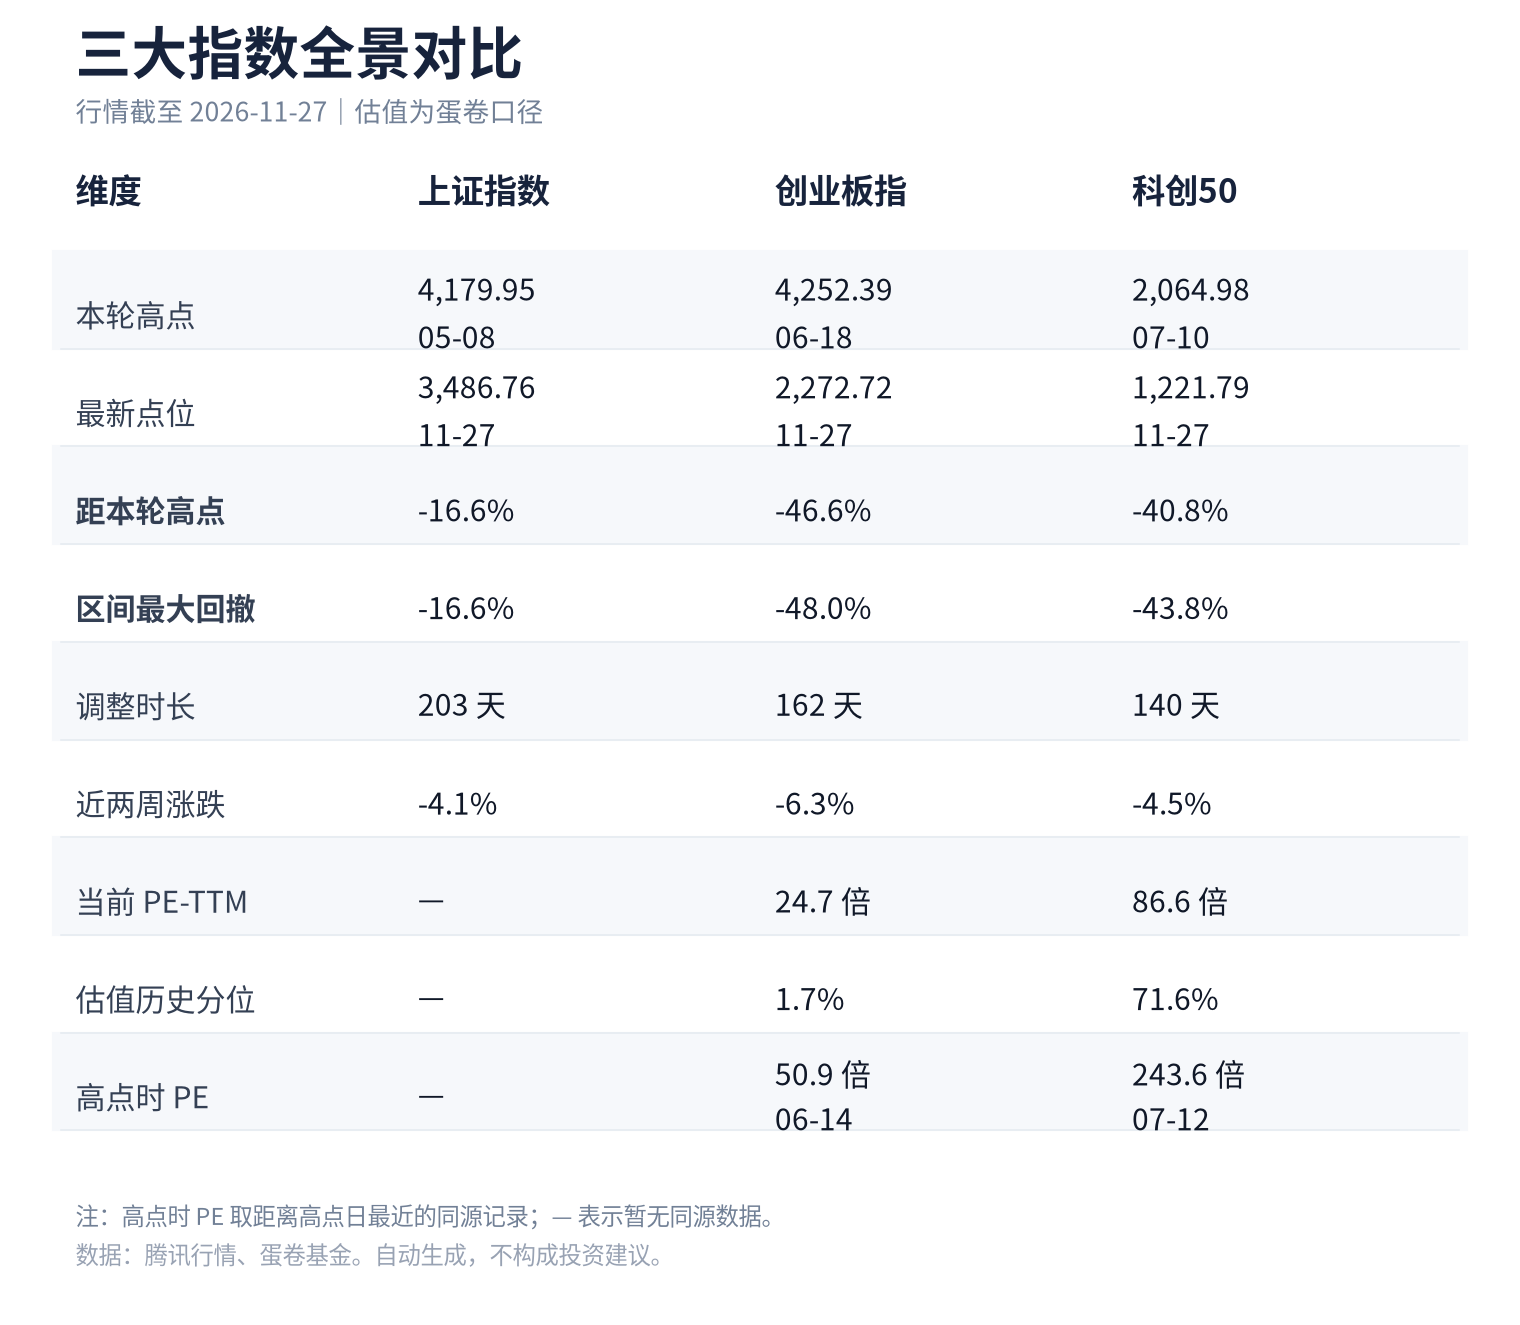
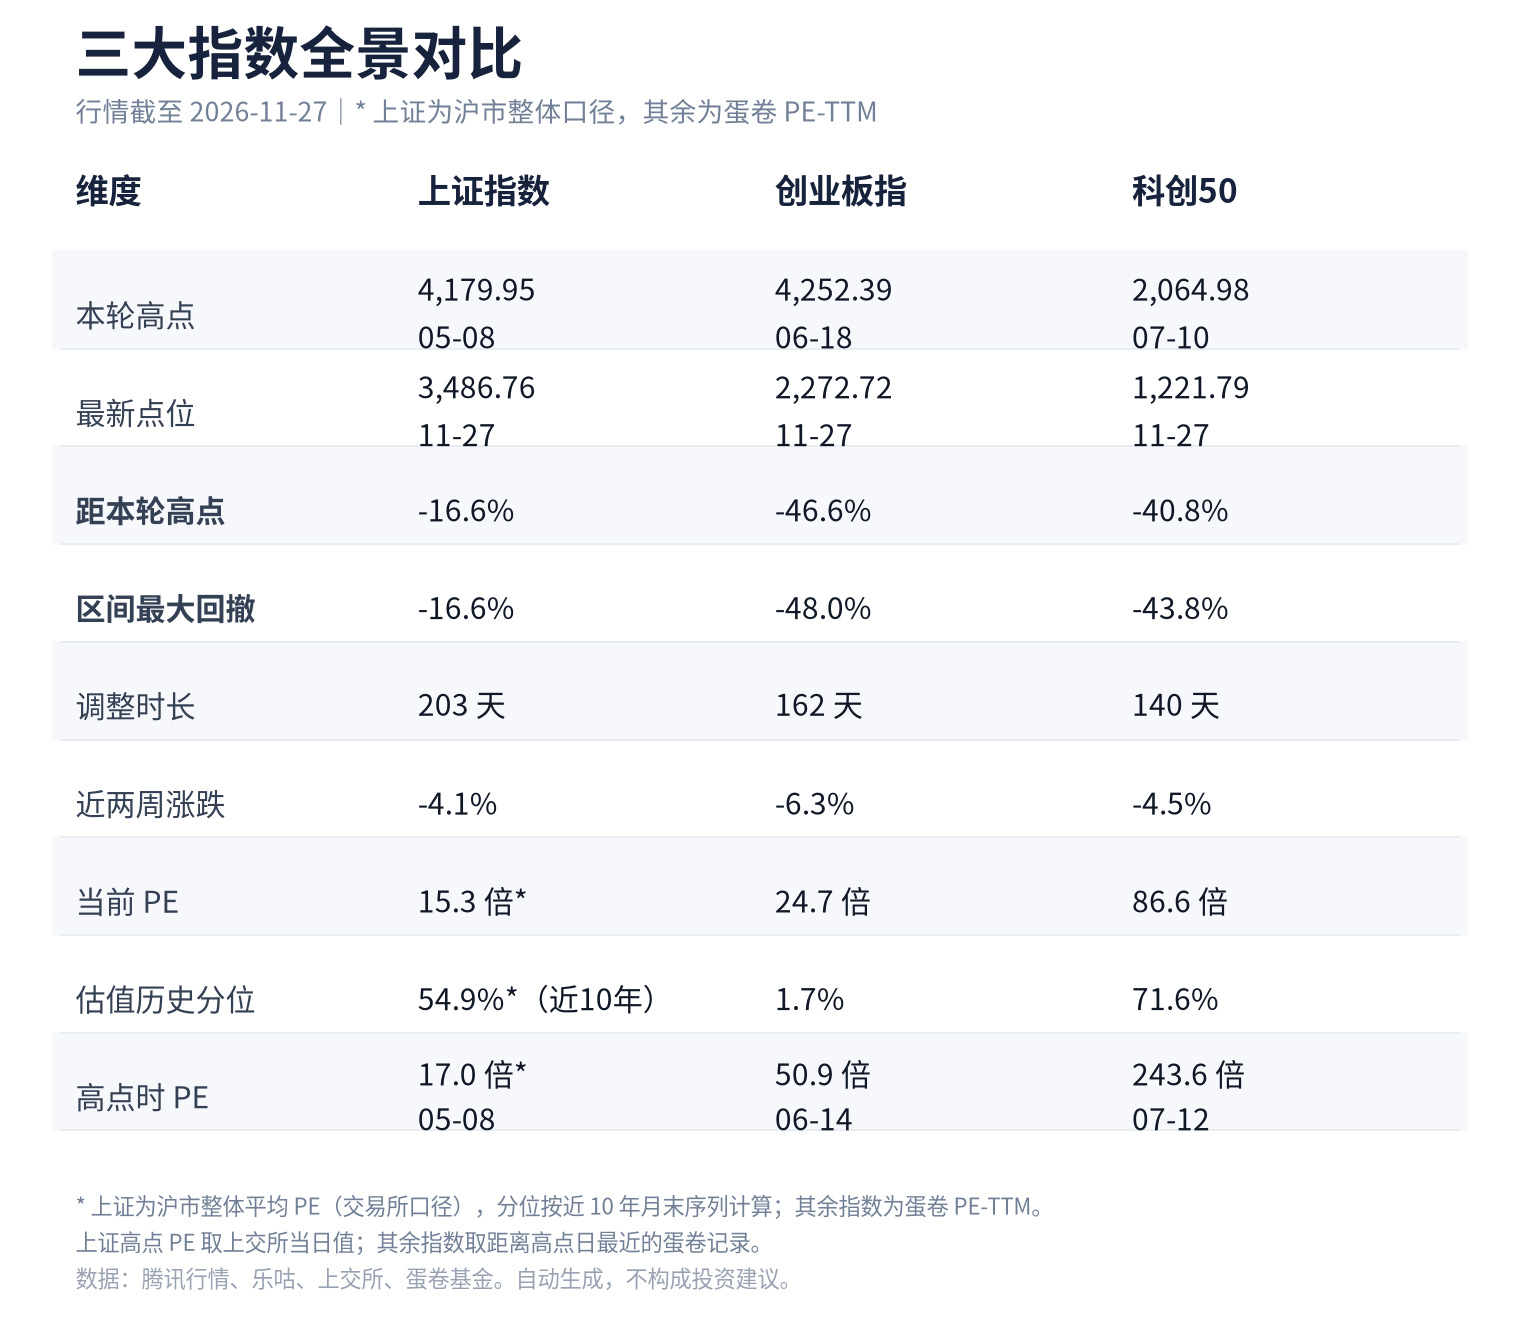
更新 A股双周报告 2026-11-27

diff --git a/out/三大指数对比.md b/out/三大指数对比.md
@@ -10,8 +10,10 @@
 
 | 指数 | 最新点位 | 日期 | 年内高点(日期) | 距高点 | 区间最大回撤 | 调整天数 | 近两周 | PE | PE分位 | 高点时PE(记录日期) |
 |---|---|---|---|---|---|---|---|---|---|---|
-| 上证指数 | 3,486.76 | 2026-11-27 | 4,179.95（2026-05-08） | -16.6% | -16.6% | 203 天 | -4.1% | — | — | — |
+| 上证指数 | 3,486.76 | 2026-11-27 | 4,179.95（2026-05-08） | -16.6% | -16.6% | 203 天 | -4.1% | 15.3 倍* | 54.9%*（近10年） | 17.0 倍*（2026-05-08） |
 | 创业板指 | 2,272.72 | 2026-11-27 | 4,252.39（2026-06-18） | -46.6% | -48.0% | 162 天 | -6.3% | 24.7 倍 | 1.7% | 50.9 倍（2026-06-14） |
 | 科创50 | 1,221.79 | 2026-11-27 | 2,064.98（2026-07-10） | -40.8% | -43.8% | 140 天 | -4.5% | 86.6 倍 | 71.6% | 243.6 倍（2026-07-12） |
+
+* 上证为沪市整体平均 PE（交易所口径），分位按近 10 年月末序列计算；其余指数为蛋卷 PE-TTM。上证高点 PE 取上交所当日值；其余指数取距离高点日最近的蛋卷记录。
 
 图文件：股债对照.png、三大指数对比.png；表格文本：三大指数对比.md。自动生成，不构成投资建议。
